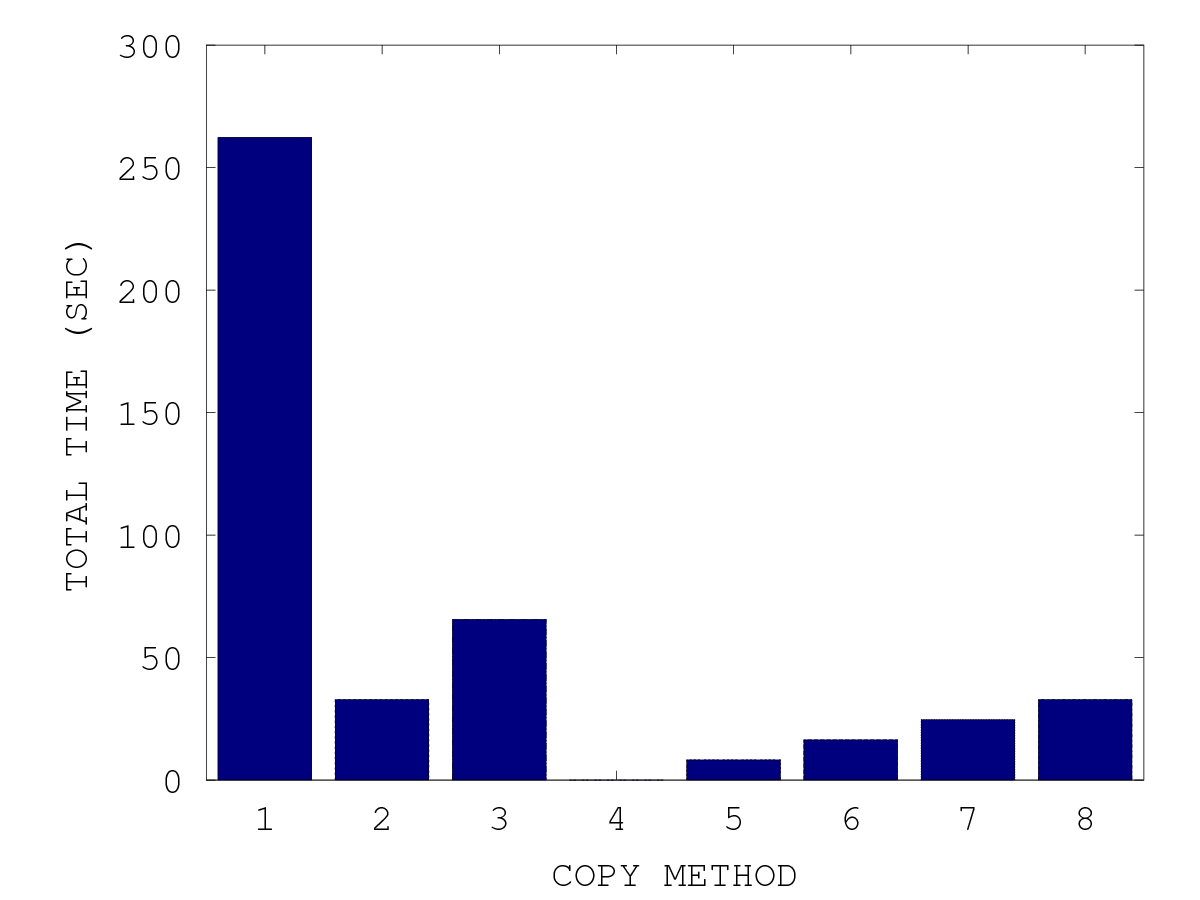
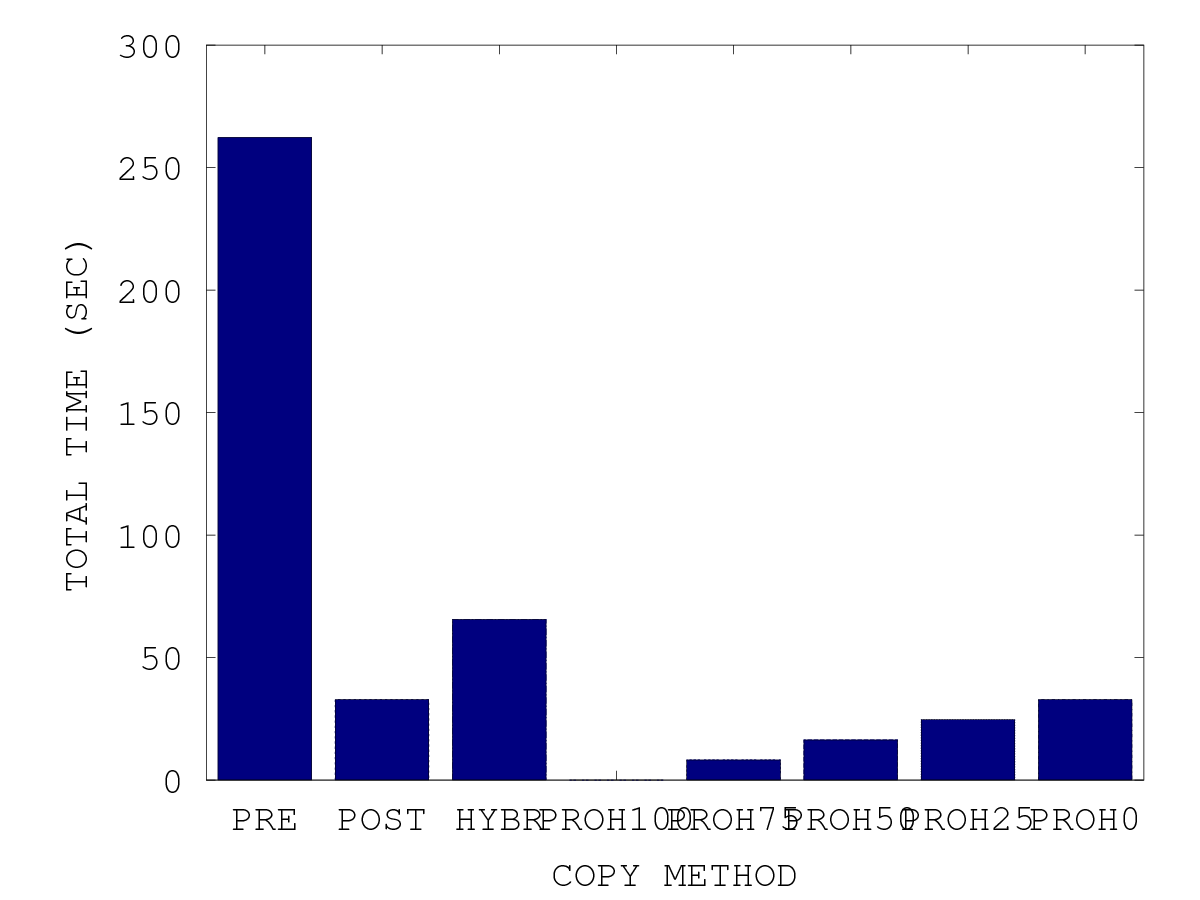
basic.m

Changed region(s): [[0.37, 0.9022, 0.9558, 0.9333], [0.2775, 0.9022, 0.3392, 0.9333], [0.185, 0.9022, 0.2467, 0.9333]]

diff --git a/basic.m b/basic.m
@@ -271,7 +271,7 @@ output = strcat(prefix, ".tt");
 %output = prefix
 %x = ['PRECOPY', 'POSTCOPY', 'HYBRID', 'PRO-HYBRID'];
 x = {'PRE', 'POST', 'HYBR', 'PROH100', 'PROH75', 'PROH50', 'PROH25', 'PROH0'};
-x = {'1', '2', '3', '4', '5', '6', '7', '8'};
+%x = {'1', '2', '3', '4', '5', '6', '7', '8'};
 xintervals = 1:2:2*length(x);
 %plot(x, A(:,2)/1000000, x, A(:,3)/1000000, '-.*');
 %plot(A(:,2));
